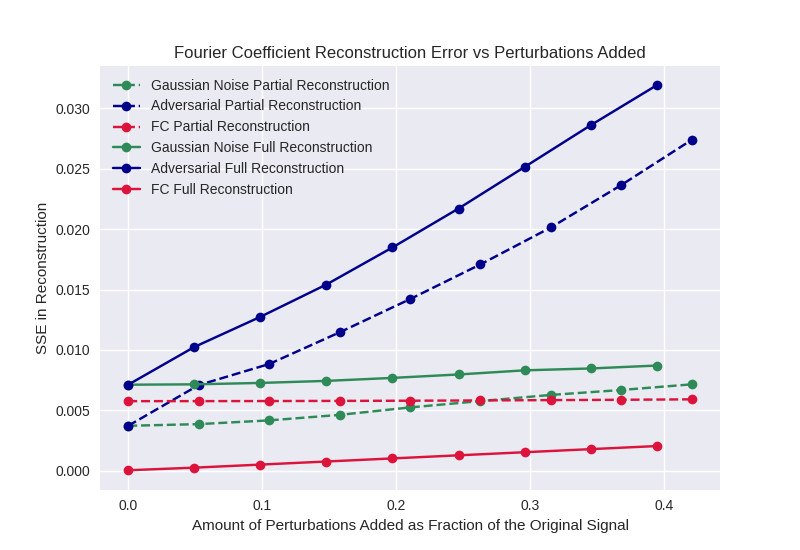
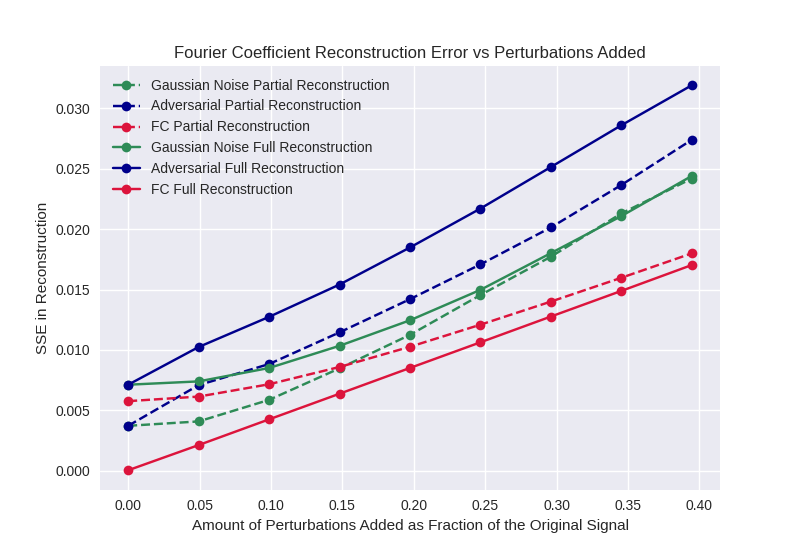
FC normalized

diff --git a/corruptFourier.py b/corruptFourier.py
@@ -46,9 +46,13 @@ def main(argv):
     #epsilons = np.asarray([0, 2.5])
     perturb_sizes = list(np.linspace(0, 30000, num=9))
     epsilons_perturb = zip(epsilons, perturb_sizes)
+    size_array = []
+    size_tarray = []
+
 
     for epsilon, perturb in epsilons_perturb:
         tst_org, tst_inp = rd.get_validation_data(num_from=20, num_img=1, acc=4, full=full) 
+        tst_org_full, tst_inp_full = rd.get_validation_data(num_from=20, num_img=1, acc=4, full=True) 
 
         mu = np.mean(tst_org, axis=(-1, -2), keepdims=True)
         st = np.std(tst_org, axis=(-1, -2), keepdims=True)
@@ -57,9 +61,15 @@ def main(argv):
         tst_org_adv = np.copy(tst_org)
         tst_inp_orig = np.copy(tst_inp)
 
+        mu_full = np.mean(tst_org_full, axis=(-1, -2), keepdims=True)
+        st_full = np.std(tst_org_full, axis=(-1, -2), keepdims=True)
+        tst_inp_full = (tst_inp_full - mu_full) / st_full
+        tst_inp_full = np.clip(tst_inp_full, -6, 6)
+
         # Load model and predict
         tst_org_adv = tst_org_adv[..., np.newaxis]
         tst_inp = tst_inp[..., np.newaxis]
+        tst_inp_full = tst_inp_full[..., np.newaxis]
         tst_rec = np.zeros(tst_inp.shape, dtype=np.float32)
         tst_inp_adv = np.copy(tst_inp)
         tst_intr_adv = np.zeros(tst_inp_adv.shape, dtype=np.float32)
@@ -86,8 +96,11 @@ def main(argv):
             # Create adversarial example and run reconstruction
             tst_intr_adv = epsilon * np.copy(grad)[0]
             if epsilon != 0:
+                print('tst_inp, tst_inp_full', np.sum(np.abs(tst_inp_adv)), np.sum(np.abs(tst_inp_full)))    
                 tst_intr_adv *=  perturb / (np.sum(np.abs(tst_intr_adv)))            
-                fraction = np.sum(np.abs(tst_inp_adv)) / np.sum(np.abs(tst_intr_adv))
+                fraction = np.sum(np.abs(tst_inp_full)) / np.sum(np.abs(tst_intr_adv))
+                #fraction = np.linalg.norm(tst_inp_adv) / np.linalg.norm(tst_intr_adv)
+                #fraction = np.linalg.norm(tst_inp_full) / np.linalg.norm(tst_intr_adv)
             else:
                 fraction = 0
 
@@ -99,10 +112,9 @@ def main(argv):
             # Corrupt the input Fourier coefficients with Gaussian noise
             mean, std = mu[0][0][0], st
             gauss_noise = np.random.normal(mean, std, tst_inp_orig.shape)
-            gauss_noise = gauss_noise * (np.sum(np.absolute(tst_intr_adv)) / np.sum(np.absolute(gauss_noise)))
+            gauss_noise *= (np.linalg.norm(tst_intr_adv)) / np.linalg.norm(gauss_noise)
             img_shape = np.shape(tst_inp_orig)
-            #avg_perturb = np.sum(np.absolute(gauss_noise)) / (img_shape[0] * img_shape[1] * img_shape[2])
-            tst_inp_gauss = np.copy(tst_inp_orig) - np.copy(gauss_noise)
+            tst_inp_gauss = np.copy(tst_inp_orig) + np.copy(gauss_noise)
             tst_inp_gauss = tst_inp_gauss[..., np.newaxis]
             tst_rec_gauss = np.zeros(tst_inp_gauss.shape, dtype=np.float32)
             
@@ -111,6 +123,7 @@ def main(argv):
 
         # Transform images into original shape
         tst_inp = tst_inp[..., 0]
+        tst_inp_full = tst_inp_full[..., 0]
         tst_rec = tst_rec[..., 0]
         tst_inp_gauss = tst_inp_gauss[..., 0]
         tst_rec_gauss = tst_rec_gauss[..., 0]
@@ -120,10 +133,11 @@ def main(argv):
         tst_inp, tst_rec = tst_inp * st + mu, tst_rec * st + mu
         tst_inp_gauss, tst_rec_gauss = tst_inp_gauss * st + mu, tst_rec_gauss * st + mu
         tst_inp_adv, tst_rec_adv = tst_inp_adv * st + mu, tst_rec_adv * st + mu
-
+        tst_inp_full = tst_inp_full * st_full + mu_full
 
         # Add noise to FC to see how it reacts
         coeff_inp = sf.fft2c(tst_inp)
+        coeff_inp_full = sf.fft2c(tst_inp_full)
         first_img = sf.sos(sf.crop(sf.ifft2c(coeff_inp), (320, 320)))
         first_img = first_img[np.newaxis, ...]
 
@@ -134,22 +148,23 @@ def main(argv):
         gauss_noise_fc_real = np.random.normal(mean, std, size=shp)
         gauss_noise_fc_imag = np.random.normal(mean, std, size=shp) * 1j
         gauss_noise_fc = gauss_noise_fc_real[...] + gauss_noise_fc_imag[...]
-        gauss_noise_fc *=  1 / np.sum(np.abs(gauss_noise_fc))
+
+        gauss_noise_fc[np.nonzero(coeff_inp == 0.+0.j)] = 0.+0.j
+
+        gauss_noise_fc *=  1 / np.linalg.norm(gauss_noise_fc)
         if epsilon != 0:  
-            #fc_scaling = (perturb) / (np.sum(np.abs(gauss_noise_fc)) * scale)
-            fc_scaling = np.sum(np.abs(coeff_inp)) / fraction
+            fc_scaling = np.linalg.norm(coeff_inp_full) / fraction
             gauss_noise_fc *= fc_scaling
             print(perturb, scale, perturb/scale, np.sum(np.abs(gauss_noise_fc)), np.sum(np.abs(coeff_inp)))
             print('FC Scaling', fc_scaling)
         else:
             gauss_noise_fc = np.zeros(shape=gauss_noise_fc.shape, dtype=np.complex64)
 
-        coeff_final = np.copy(coeff_inp) + np.copy(gauss_noise_fc)
-        #coeff_final = np.copy(coeff_inp)
-        #idx_max = np.unravel_index(coeff_final.argmax(), coeff_final.shape)
-        #coeff_final[idx_max[0]][idx_max[1]][idx_max[2]] += np.sum(np.abs(gauss_noise_fc))
 
-        print('Amax', np.amax(coeff_final))
+        noise_size = np.linalg.norm(gauss_noise_fc)
+        size_array.append(noise_size)
+
+        coeff_final = np.copy(coeff_inp) + np.copy(gauss_noise_fc)
         tst_fc = sf.sos(sf.crop(sf.ifft2c(coeff_final), (320, 320)))
 
         tst_fc_noise = sf.sos(sf.crop(sf.ifft2c(gauss_noise_fc), (320, 320)))
@@ -160,6 +175,9 @@ def main(argv):
         tst_fc = tst_fc[np.newaxis, ...]
         print('PIC SUMS', epsilon, np.sum(np.abs(tst_fc[...])), np.sum(np.abs(tst_rec_gauss)), np.sum(np.abs(tst_rec_adv[...])))
         print('NOISE SUMS', np.sum(np.abs(tst_fc_noise)), np.sum(np.abs(gauss_noise)), np.sum(np.abs(tst_intr_adv)))
+
+        noise_transform_size = np.linalg.norm(tst_fc_noise)
+        size_tarray.append(noise_transform_size)
 
         [fc_error, gaussian_error, adv_error] = calculate_sse(tst_org, tst_fc, tst_rec_gauss, tst_rec_adv)
 
@@ -174,6 +192,8 @@ def main(argv):
         if img_name:
             image_grid(img_name, tst_org, tst_inp, tst_fc, gauss_noise, tst_inp_gauss, tst_rec_gauss, tst_intr_adv, tst_inp_adv, tst_rec_adv)
 
+    np.save('p', np.array(size_array))
+    np.save('noise_transform', np.array(size_tarray))
 
 if __name__ == "__main__":
     sys.exit(main(parse_args()))

diff --git a/test_plot.py b/test_plot.py
@@ -1,0 +1,15 @@
+import matplotlib.pyplot as plt
+import numpy as np
+
+plt.style.use('seaborn')
+
+partial = np.load('noise_transform.npy')
+#full = np.load('f.npy')
+x = np.arange(len(partial))
+
+plt.plot(x, partial, marker='o', ls='--', color='seagreen', label='Partial FC')
+#plt.plot(x, full, marker='o', color='darkblue', label='Full FC')
+plt.ylabel('Perturbations Added')
+plt.xlabel('Index')
+plt.legend(loc='upper left')
+plt.savefig('sizes_plot.png')

diff --git a/demoCode.py b/demoCode.py
@@ -43,6 +43,7 @@ with tf.Session(config=config) as sess:
     new_saver.restore(sess, loadChkPoint)
     graph = tf.get_default_graph()
     predT = graph.get_tensor_by_name('predTst:0')
+    maskT = graph.get_tensor_by_name('mask:0')
     senseT = graph.get_tensor_by_name('sense:0')
     for i in range(nImg):
         dataDict = {senseT: tstInp[[i]]}

diff --git a/plotResults.py b/plotResults.py
@@ -3,8 +3,8 @@ import numpy as np
 
 plt.style.use('seaborn')
 
-all_data_partial = np.load('Jun2_partial.npy')
-all_data_full = np.load('Jun2_full.npy')
+all_data_partial = np.load('Jun8_p.npy')
+all_data_full = np.load('Jun8_f.npy')
 
 n = 4
 data_partial = [all_data_partial[k:k+n] for k in range(0, len(all_data_partial), n)]
